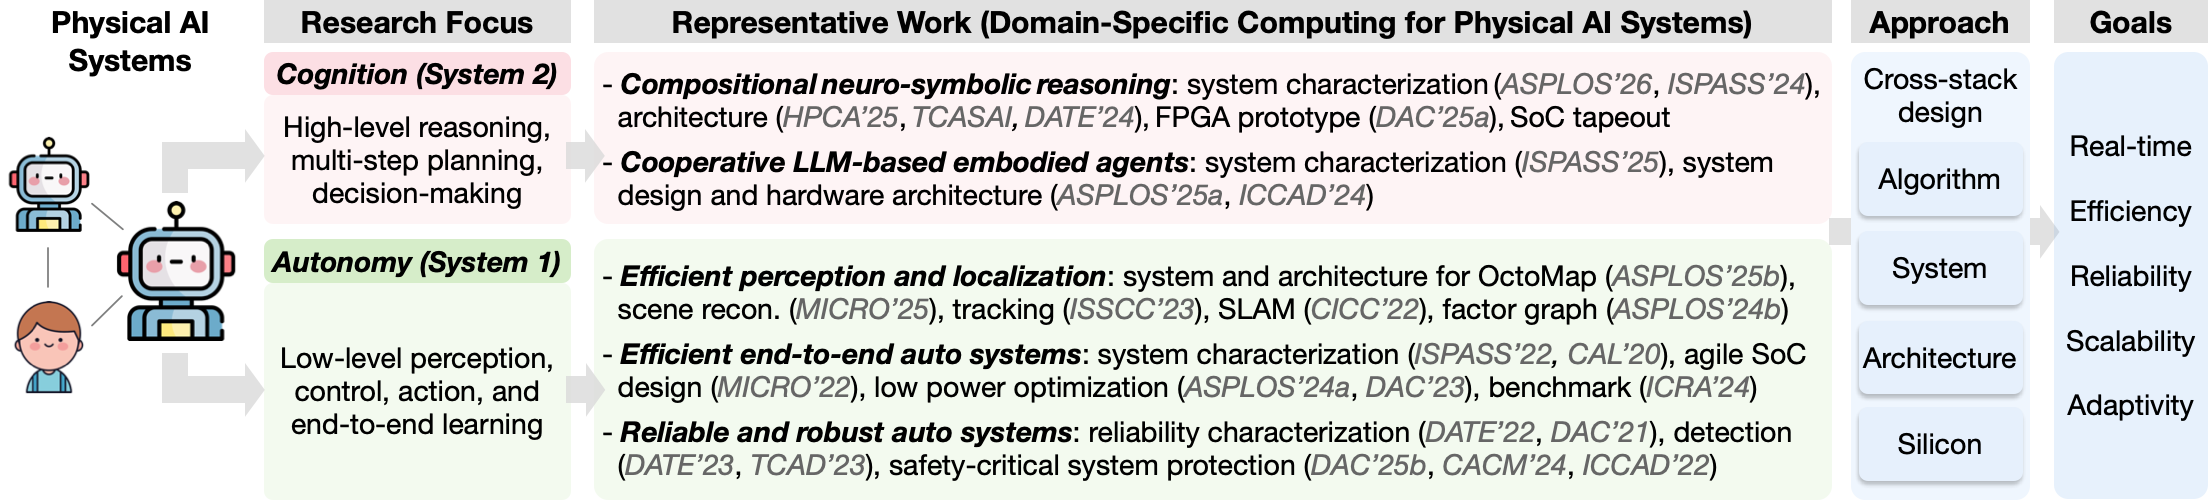
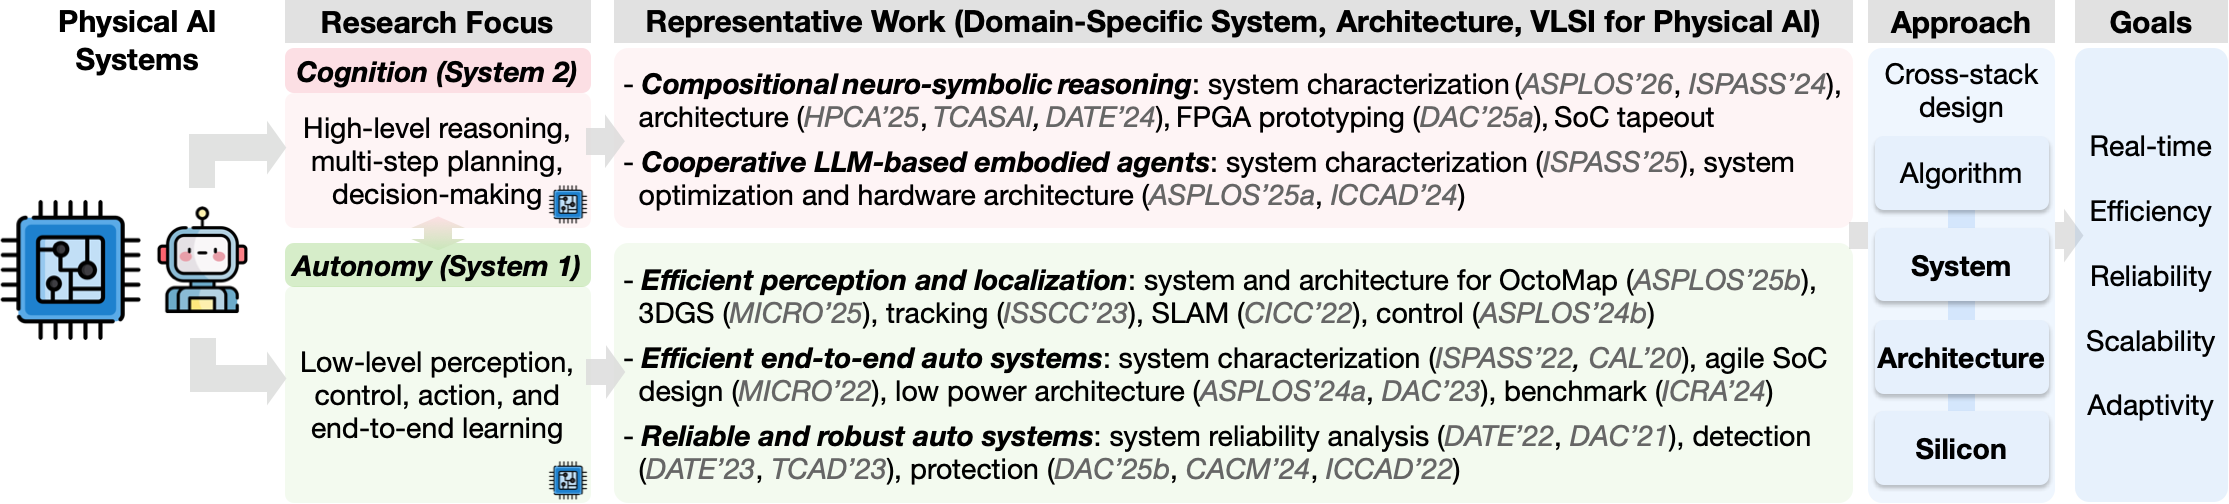
update research overview figure

diff --git a/index.html b/index.html
@@ -56,7 +56,7 @@
             <td style="padding:20px;width:100%;vertical-align:middle">
               <heading>Research Interests</heading>  
               <p></p>
-              My research lies at the intersection of computer architecture, VLSI, and cognitive intelligence. I co-design systems, architectures, and solid-state hardware to enhance efficiency and resilience of autonomous machines and neuro-symbolic AI, advancing the next-gen embodied agentic applications.  
+              I'm a computer architect and SoC designer developing domain-specific systems and hardware for Physical AI. My research sits at the intersection of computer architecture, VLSI, and cognitive intelligence. I co-design systems, architectures, and solid-state hardware for autonomous machines and neuro-symbolic AI, advancing the next-generation embodied intelligence with real-time performance, efficiency, reliability, and scalability.
               <ul> 
                 <li> <strong>System</strong>: <br>
                   <ul>
